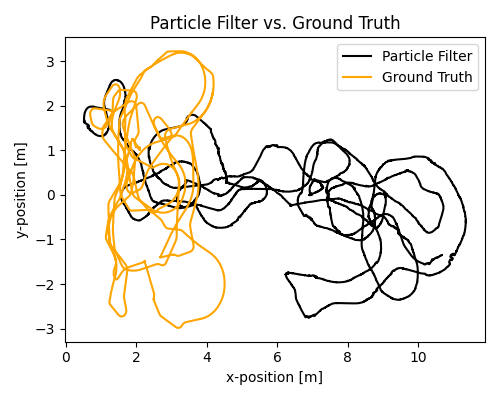
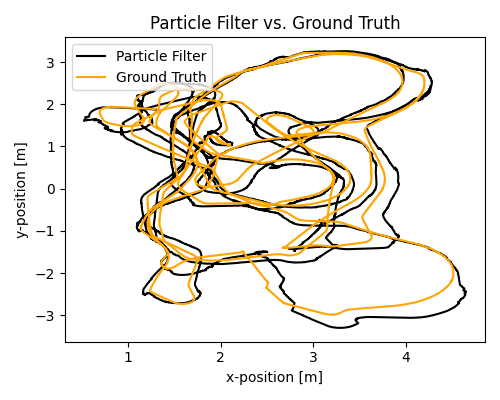
Finished particle filter

diff --git a/run.py b/run.py
@@ -473,7 +473,7 @@ def aug():
         (x_traj_ukf_aug_none, 'Augmented UKF', disp_bots, 'purple', 0.2),
         (x_traj_gt, 'Ground Truth', disp_bots, 'orange', 0.2)
     ]
-    _ = plot_wheeled_robot(trajectories_comp, "Regular UKF vs. Augmented UKF Comparison with No Noise", "aug_reg.png", plot_dr=False)
+    _ = plot_wheeled_robot(trajectories_comp, "Regular UKF vs. Augmented UKF Comparison", "aug_reg.png", plot_dr=False)
     trajectories_no = [     # No noise
         (x_traj_dr, 'Dead-Reckoned', disp_bots, 'blue', 0.2),
         (x_traj_ukf_aug_none, 'Augmented UKF', disp_bots, 'purple', 0.2),
@@ -627,73 +627,73 @@ def all_filters():
     tf = u_df['time'].iloc[-1]
     h = 1/67.0  # Odometry logged at 67 Hz
     u_traj = np.array(u_df.iloc[:, 1:])
-    p = p=0.01
+    p = 0.01
     R = np.diag(np.array([p, p, p]))
     Q = np.diag(np.array([p, p]))
 
-    # tspan_ekf, x_traj_ekf = extended_kalman(u_traj, z_df, landmarks, subject_dict, motion_model, measurement_model,    # EKF
-    #                                          x0, t0, tf, h, Q, R, aug=True, tspan=u_df['time'], tsync='var')
+    tspan_ekf, x_traj_ekf = extended_kalman(u_traj, z_df, landmarks, subject_dict, motion_model, measurement_model,    # EKF
+                                             x0, t0, tf, h, Q, R, tspan=u_df['time'], tsync='var')
 
-    # tspan_ukf, x_traj_ukf = unscented_kalman(u_traj, z_df, landmarks, subject_dict, motion_model, measurement_model,    # Regular UKF
-    #                                          x0, t0, tf, h, Q, R, aug=False, tspan=u_df['time'], tsync='var')
+    tspan_ukf, x_traj_ukf = unscented_kalman(u_traj, z_df, landmarks, subject_dict, motion_model, measurement_model,    # Regular UKF
+                                             x0, t0, tf, h, Q, R, aug=False, tspan=u_df['time'], tsync='var')
     
     tspan_part, x_traj_part = particle(u_traj, z_df, landmarks, subject_dict, motion_model, measurement_model,    # Particle
-                                     x0, t0, tf, h, Q, R, M=10, tspan=u_df['time'], tsync='var')
+                                     x0, t0, tf, h, Q, R, M=50.0, tspan=u_df['time'], tsync='var')
 
-    # Q = np.diag(np.array([p, p, p]))
-    # tspan_ukf_aug, x_traj_ukf_aug = unscented_kalman(u_traj, z_df, landmarks, subject_dict, motion_model, measurement_model,   # Augmented UKF
-    #                                          x0, t0, tf, h, Q, R, aug=True, tspan=u_df['time'], tsync='var')
+    Q = np.diag(np.array([p, p, p]))
+    tspan_ukf_aug, x_traj_ukf_aug = unscented_kalman(u_traj, z_df, landmarks, subject_dict, motion_model, measurement_model,   # Augmented UKF
+                                             x0, t0, tf, h, Q, R, aug=True, tspan=u_df['time'], tsync='var')
     
     x_traj_gt = np.array(ground_truth.iloc[:, 1:])
     
     disp_bots = False
-    # trajectories_ekf = [     # EKF
-    #     (x_traj_ekf, 'EKF', disp_bots, 'pink', 0.2),
-    #     (x_traj_gt, 'Ground Truth', disp_bots, 'orange', 0.2)
-    # ]
-    # _ = plot_wheeled_robot(trajectories_ekf, "EKF vs. Ground Truth", "all_ekf.png", plot_dr=False)
-    # trajectories_ukf = [     # UKF
-    #     (x_traj_ukf, 'EKF', disp_bots, 'red', 0.2),
-    #     (x_traj_gt, 'Ground Truth', disp_bots, 'orange', 0.2)
-    # ]
-    # _ = plot_wheeled_robot(trajectories_ukf, "Regular UKF vs. Ground Truth", "all_ukf.png", plot_dr=False)
+    trajectories_ekf = [     # EKF
+        (x_traj_ekf, 'EKF', disp_bots, 'grey', 0.2),
+        (x_traj_gt, 'Ground Truth', disp_bots, 'orange', 0.2)
+    ]
+    _ = plot_wheeled_robot(trajectories_ekf, "EKF vs. Ground Truth", "all_ekf.png", plot_dr=False)
+    trajectories_ukf = [     # UKF
+        (x_traj_ukf, 'EKF', disp_bots, 'red', 0.2),
+        (x_traj_gt, 'Ground Truth', disp_bots, 'orange', 0.2)
+    ]
+    _ = plot_wheeled_robot(trajectories_ukf, "Regular UKF vs. Ground Truth", "all_ukf.png", plot_dr=False)
     trajectories_part = [     # Particle Filter
         (x_traj_part, 'Particle Filter', disp_bots, 'black', 0.2),
         (x_traj_gt, 'Ground Truth', disp_bots, 'orange', 0.2)
     ]
     _ = plot_wheeled_robot(trajectories_part, "Particle Filter vs. Ground Truth", "all_part.png", plot_dr=False)
-    # trajectories_ukf_aug = [     # Augmented UKF
-    #     (x_traj_ukf_aug, 'Augmented UKF', disp_bots, 'purple', 0.2),
-    #     (x_traj_gt, 'Ground Truth', disp_bots, 'orange', 0.2)
-    # ]
-    # _ = plot_wheeled_robot(trajectories_ukf_aug, "Augmented UKF vs. Ground Truth", "all_ukf_aug.png", plot_dr=False)
+    trajectories_ukf_aug = [     # Augmented UKF
+        (x_traj_ukf_aug, 'Augmented UKF', disp_bots, 'purple', 0.2),
+        (x_traj_gt, 'Ground Truth', disp_bots, 'orange', 0.2)
+    ]
+    _ = plot_wheeled_robot(trajectories_ukf_aug, "Augmented UKF vs. Ground Truth", "all_ukf_aug.png", plot_dr=False)
 
     # Compute statistics
-    # num_samples = x_traj_gt.shape[0] + (x_traj_ukf_aug.shape[0] - x_traj_gt.shape[0])//2
-    # traj_ekf_resamp = t_match(x_traj_ekf, num_samples)
-    # traj_part_resamp = t_match(x_traj_part, num_samples)
-    # traj_gt_resamp = t_match(x_traj_gt, num_samples)
-    # stats_ekf = compute_traj_statistics(traj_ekf_resamp, traj_gt_resamp)
-    # stats_part = compute_traj_statistics(traj_part_resamp, traj_gt_resamp)
+    num_samples = x_traj_gt.shape[0] + (x_traj_ukf_aug.shape[0] - x_traj_gt.shape[0])//2
+    traj_ekf_resamp = t_match(x_traj_ekf, num_samples)
+    traj_part_resamp = t_match(x_traj_part, num_samples)
+    traj_gt_resamp = t_match(x_traj_gt, num_samples)
+    stats_ekf = compute_traj_statistics(traj_ekf_resamp, traj_gt_resamp)
+    stats_part = compute_traj_statistics(traj_part_resamp, traj_gt_resamp)
 
-    # metrics_dict = {'ekf': stats_ekf, 'particle': stats_part}
-    # for key, value in metrics_dict.items():
-    #     met_path = os.path.join(METRICS_PATH, f'{key}_metrics.json')
-    #     with open(met_path, "w") as f:
-    #         json.dump(value, f, indent=4)
+    metrics_dict = {'ekf': stats_ekf, 'particle': stats_part}
+    for key, value in metrics_dict.items():
+        met_path = os.path.join(METRICS_PATH, f'{key}_metrics.json')
+        with open(met_path, "w") as f:
+            json.dump(value, f, indent=4)
     print("Done\n")
     
 
 def main():
     print("*** STARTING ***\n")
-    # q2()
-    # q3()
-    # q6()
-    # q8a()
-    # q8b_9()
+    q2()
+    q3()
+    q6()
+    q8a()
+    q8b_9()
     # aug()
     # study_comp()
-    all_filters()
+    # all_filters()
     
     print("\n*** DONE ***")
     return

diff --git a/filters.py b/filters.py
@@ -8,7 +8,7 @@ Date: 09/19/2025
 """ 
 import numpy as np
 
-def normalize_angle(theta):
+def wrap_angle(theta):
     return np.arctan2(np.sin(theta), np.cos(theta))
 
 def dead_reckon(u_traj, motion_model, x0, t0, tf, h, Q=None, tspan=None, tsync='const'):
@@ -144,7 +144,7 @@ def extended_kalman(u_traj,
             
                 # Update prediction with measurement
                 z_diff = zt - zt_bar
-                z_diff[1] = normalize_angle(z_diff[1])
+                z_diff[1] = wrap_angle(z_diff[1])
                 mut = mut_bar + Kt @ (z_diff)
                 sigt = (np.eye(3) - Kt @ Ht) @ sigt_bar
 
@@ -156,7 +156,7 @@ def extended_kalman(u_traj,
             sigt = sigt_bar
             new_meas = False
 
-        mut[2] = normalize_angle(mut[2])
+        mut[2] = wrap_angle(mut[2])
         prev_u_time = t
         prev_control = ut
     return tspan, sim
@@ -183,11 +183,8 @@ def unscented_kalman(u_traj,
     Function that executes a control trajectory given motion and measurement models,
     using the UKF for state estimation.
     
-    Followed this tutorial by James Han on YouTube:
+    Referenced this video by James Han on YouTube:
     https://www.youtube.com/watch?v=c_6WDC66aVk
-
-    For augmented, also used this paper:
-    chrome-extension://efaidnbmnnnibpcajpcglclefindmkaj/https://skoge.folk.ntnu.no/prost/proceedings/acc05/PDFs/Papers/0724_FrB02_6.pdf
 
     Args:
         u_traj: Control trajectory
@@ -331,7 +328,7 @@ def unscented_kalman(u_traj,
                 # Incorporate measurement Gaussian into prediction to get posterior
                 Kt = sigt_xz @ np.linalg.inv(sigt_zz)   # Kalman gain
                 z_diff = zt - zt_bar
-                z_diff[1] = normalize_angle(z_diff[1])
+                z_diff[1] = wrap_angle(z_diff[1])
                 mut = mut_bar + Kt @ (z_diff)
                 sigt = sigt_bar - Kt @ sigt_zz @ Kt.T
                 # sigt = sigt_bar - Kt @ sigt_xz.T
@@ -344,7 +341,7 @@ def unscented_kalman(u_traj,
             mut = mut_bar
             sigt = sigt_bar
 
-        mut[2] = normalize_angle(mut[2])
+        mut[2] = wrap_angle(mut[2])
         prev_u_time = t
         prev_control = ut
     return tspan, sim
@@ -394,7 +391,7 @@ def particle(u_traj,
     prev_u_time = tspan[0] - h
     prev_control = u_traj[0]
     Xtbar = np.zeros((M,3))                         # Holds particles before resampling
-    W = np.zeros(M)                                 # Holds particle weights
+    W = np.ones(M)                                 # Holds particle weights
     Xt = x0 + np.random.multivariate_normal(np.zeros(len(x0)), R, size=M)               # Holds resampled particles
     rng = np.random.default_rng()                   # Random number generator for resampling
 
@@ -453,7 +450,7 @@ def particle(u_traj,
 
                     # Compute weight as log likelihood of true sensor reading given simulated sensor reading
                     # and combine with weight for other potential readings
-                    log_wm += np.log(max(pdf(zt, zm, Q), 1e-12))    # Don't take log of 0
+                    log_wm += np.log(max(pdf(wrap_angle(zt), wrap_angle(zm), Q), 1e-12))    # Don't take log of 0
 
                 W[m] = np.exp(log_wm)   # Convert back to regular likelihood
 
@@ -470,8 +467,8 @@ def particle(u_traj,
         else:
             Xt = Xtbar   # If no sampling, save all particles
 
-        mut = np.mean(Xt, axis=0)
-        mut[2] = normalize_angle(mut[2])
+        mut = np.average(Xt, axis=0, weights=W)
+        mut[2] = wrap_angle(mut[2])
         prev_u_time = t
         prev_control = ut
     return tspan, sim
